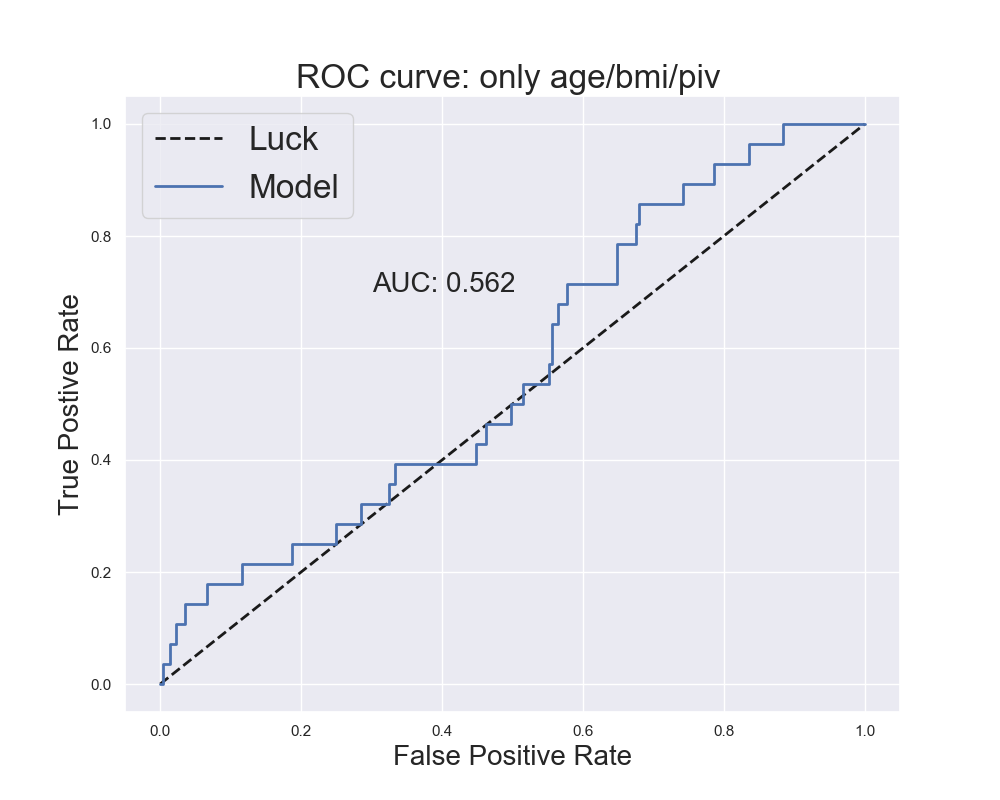
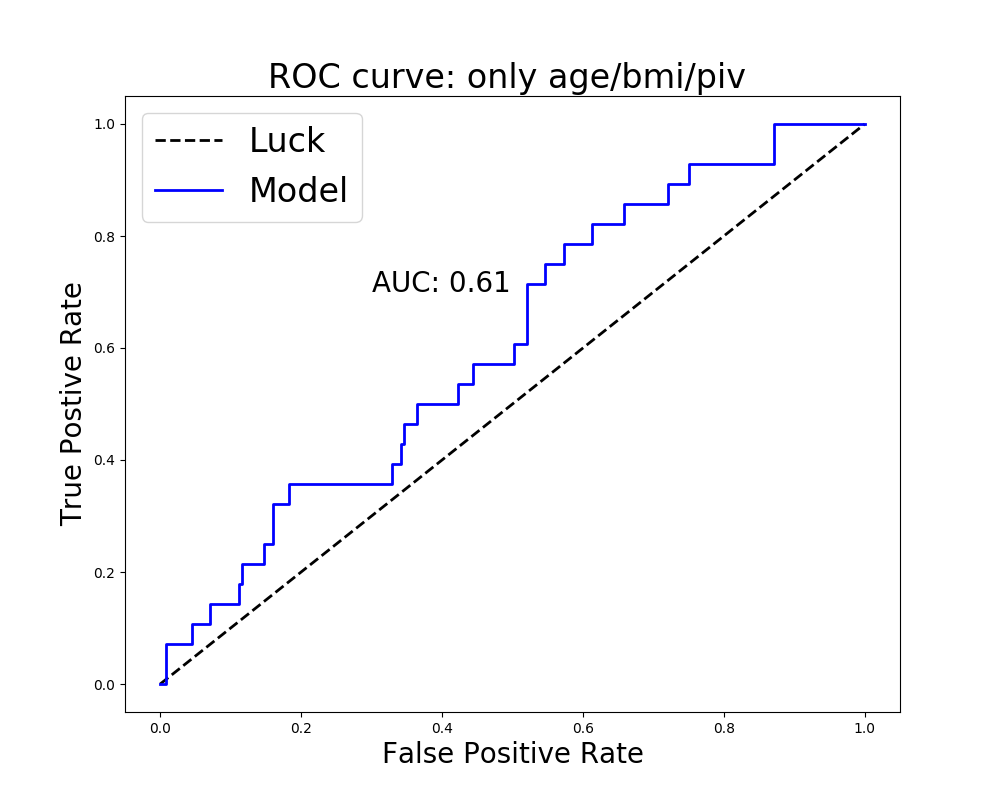
updating code

diff --git a/src/clean_data1516.py b/src/clean_data1516.py
@@ -68,8 +68,8 @@ def clean_data(df):
 
     df['current'] = df['smq040'].replace({1.0: 'current', 2.0: 'current', 3.0: 'never', np.nan:'never'})
     df['smoke_cur'] = df['smq020'].replace({1.0: "former", 2.0: 'never', np.nan: 'never', 9.0: 'never'})
-    df['smoke'] = np.where(df['current'] == 'never', 'never', 'current')
-    #          (np.where(df['current'] == 'current', 'current', 'former')))
+    df['smoke'] = np.where(df['smoke_cur'] == 'never', 'never', 
+             (np.where(df['current'] == 'current', 'current', 'former')))
     df = df.drop(['smq020', 'smq040','current', 'smoke_cur'], axis = 1)
     #BMI new metric:
     # Reported heights and weights, considered being physiologically implausible or the result of interviewer data entry error, were coded as “missing.”

diff --git a/src/final_mod.py b/src/final_mod.py
@@ -13,6 +13,7 @@ import merge_data1516 as md
 import statsmodels.api as sm
 import seaborn as sns
 import itertools
+plt.style.use('ggplot')
 
 
 

diff --git a/README.md b/README.md
@@ -43,40 +43,38 @@ While we infertility is not only a “female” issue, for the purposes of this 
 
 For the purposes of this analysis I have excluded women who have had a hysterectomy, or have had uterine, cervical, or ovarian cancer.
 
-
 # Analysis
 
-'''                           Logit Regression Results                           
-==============================================================================
-Dep. Variable:              fert_stat   No. Observations:                 1011
-Model:                          Logit   Df Residuals:                      993
-Method:                           MLE   Df Model:                           17
-Date:                Tue, 12 Feb 2019   Pseudo R-squ.:                 0.04684
-Time:                        17:12:26   Log-Likelihood:                -333.50
-converged:                       True   LL-Null:                       -349.89
-                                        LLR p-value:                   0.01203
-==============================================================================================
-                                 coef    std err          z      P>|z|      [0.025      0.975]
-----------------------------------------------------------------------------------------------
-const                         -4.1921      0.603     -6.949      0.000      -5.375      -3.010
-age                            0.0429      0.011      3.735      0.000       0.020       0.065
-alcohol                        0.0282      0.018      1.593      0.111      -0.006       0.063
-bmi                            0.0152      0.013      1.150      0.250      -0.011       0.041
-eth_african_american          -0.1330      0.298     -0.446      0.656      -0.718       0.452
-eth_asian                     -0.0125      0.376     -0.033      0.974      -0.749       0.724
-eth_mexican_hispanic          -0.2306      0.326     -0.708      0.479      -0.869       0.408
-eth_mixed_race                 0.4088      0.497      0.823      0.410      -0.565       1.382
-eth_other_hispanic             0.0537      0.337      0.159      0.874      -0.607       0.715
-thyroid_yes                    0.0675      0.340      0.199      0.843      -0.598       0.733
-sti_yes                       -0.1457      0.309     -0.472      0.637      -0.751       0.460
-piv_yes                        1.1658      0.401      2.904      0.004       0.379       1.952
-irr_periods_yes               -0.4636      0.305     -1.521      0.128      -1.061       0.134
-physical_activity_moderate    -0.0574      0.332     -0.173      0.863      -0.707       0.593
-physical_activity_some         0.1707      0.230      0.741      0.459      -0.281       0.622
-physical_activity_vigorous     0.6370      0.521      1.223      0.221      -0.384       1.658
-smoke_current                 -0.3359      0.313     -1.073      0.283      -0.949       0.278
-smoke_former                   0.0735      0.307      0.239      0.811      -0.529       0.676
-=============================================================================================='''
+#### How did I define infertility?
+In the NHANES dataset, there are two questions asked:
+* “Have you/spouse ever attempted to become pregnant over a period of at least a year without becoming pregnant?”
+* “Have you or your spouse ever been to a doctor or other medical provider because you or she has been unable to become pregnant?”
+Those participants that said “Yes” to one of either of the two questions are infertile and those that said “No” as fertile.
+
+* From model, age and pelvic inflammatory disease were significant (Stats models)
+
+
+Coeffs from the final holdout model
+==============================
+                      coef    
+-----------------------------
+const              -4.9381      
+age                 0.0421      
+alcohol             0.1357      
+bmi                 0.0266     
+sti_yes            -0.2657      
+piv_yes             0.9422      
+irr_periods_yes     0.0356      
+smoke_current      -0.2916     
+smoke_former       -0.4855      
+=============================
+
+
+The recall from my first test 0.786
+The recall from my final hold out was 0.743
+
+
+
 
 # Discussion
 
